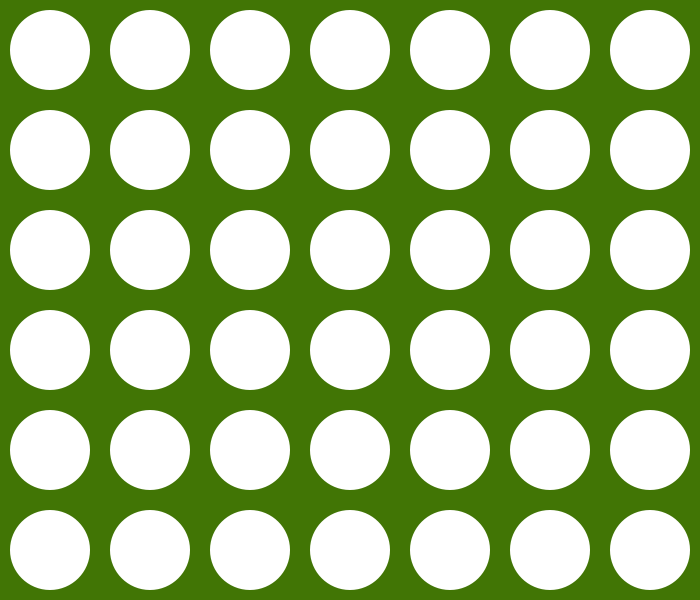
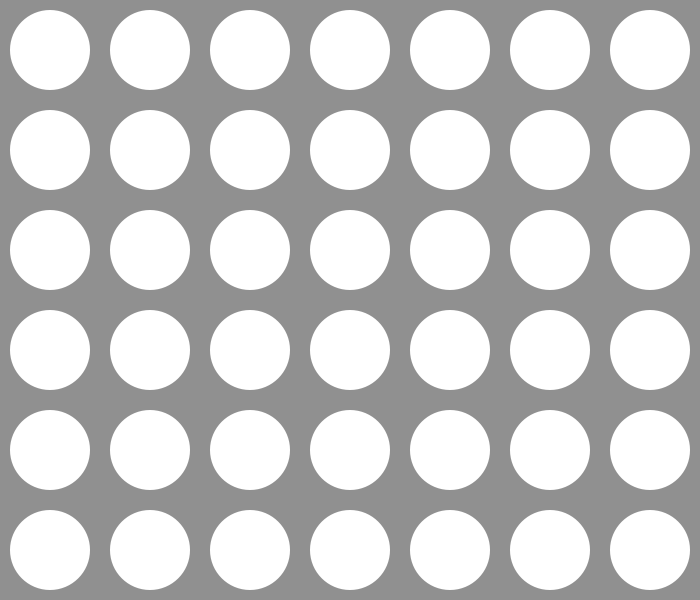
token styles

diff --git a/src/app/game/game.scss b/src/app/game/game.scss
@@ -7,6 +7,7 @@
     top: 0;
     left: 0;
     background: url(../assets/board.png);
+    pointer-events: none;
   }
 }
 
@@ -18,6 +19,14 @@
 .cell {
   width: 100px;
   height: 100px;
-  background: red;
+  border-radius:50px;
   display: inline-block;
+
+  &.human {
+    background: red;
+  }
+
+  &.machine {
+    background: yellow;
+  }
 }
